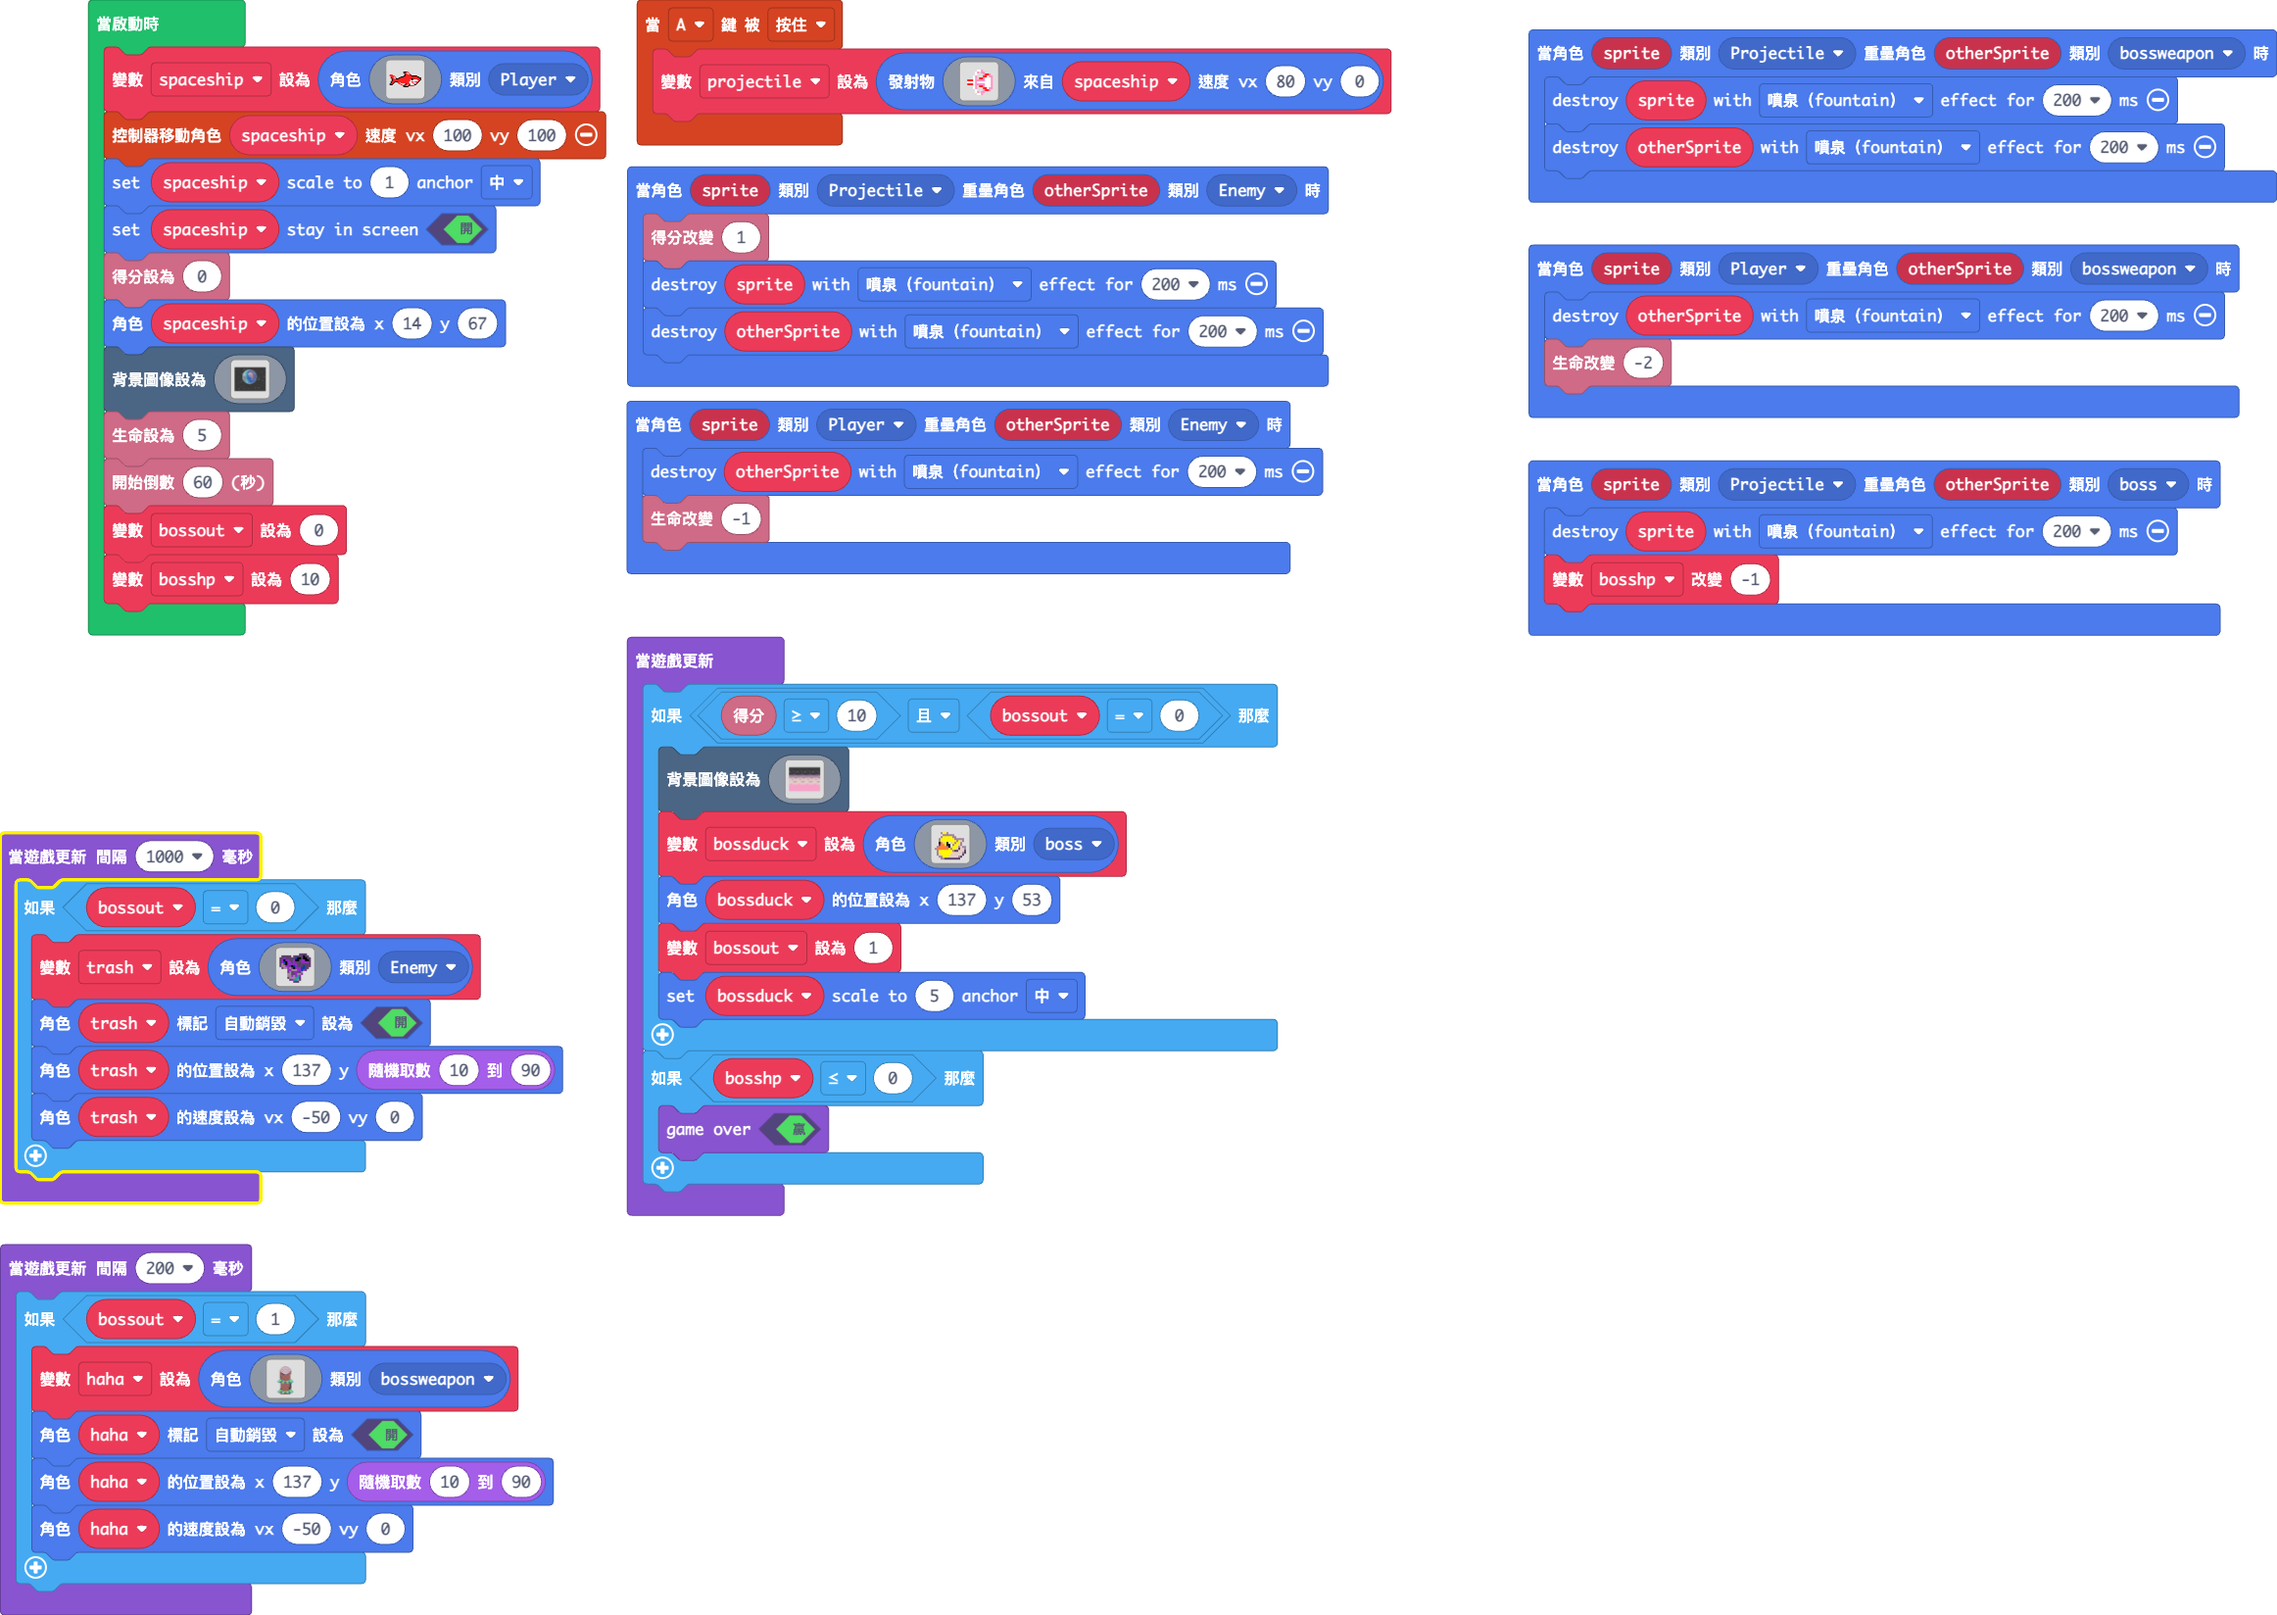
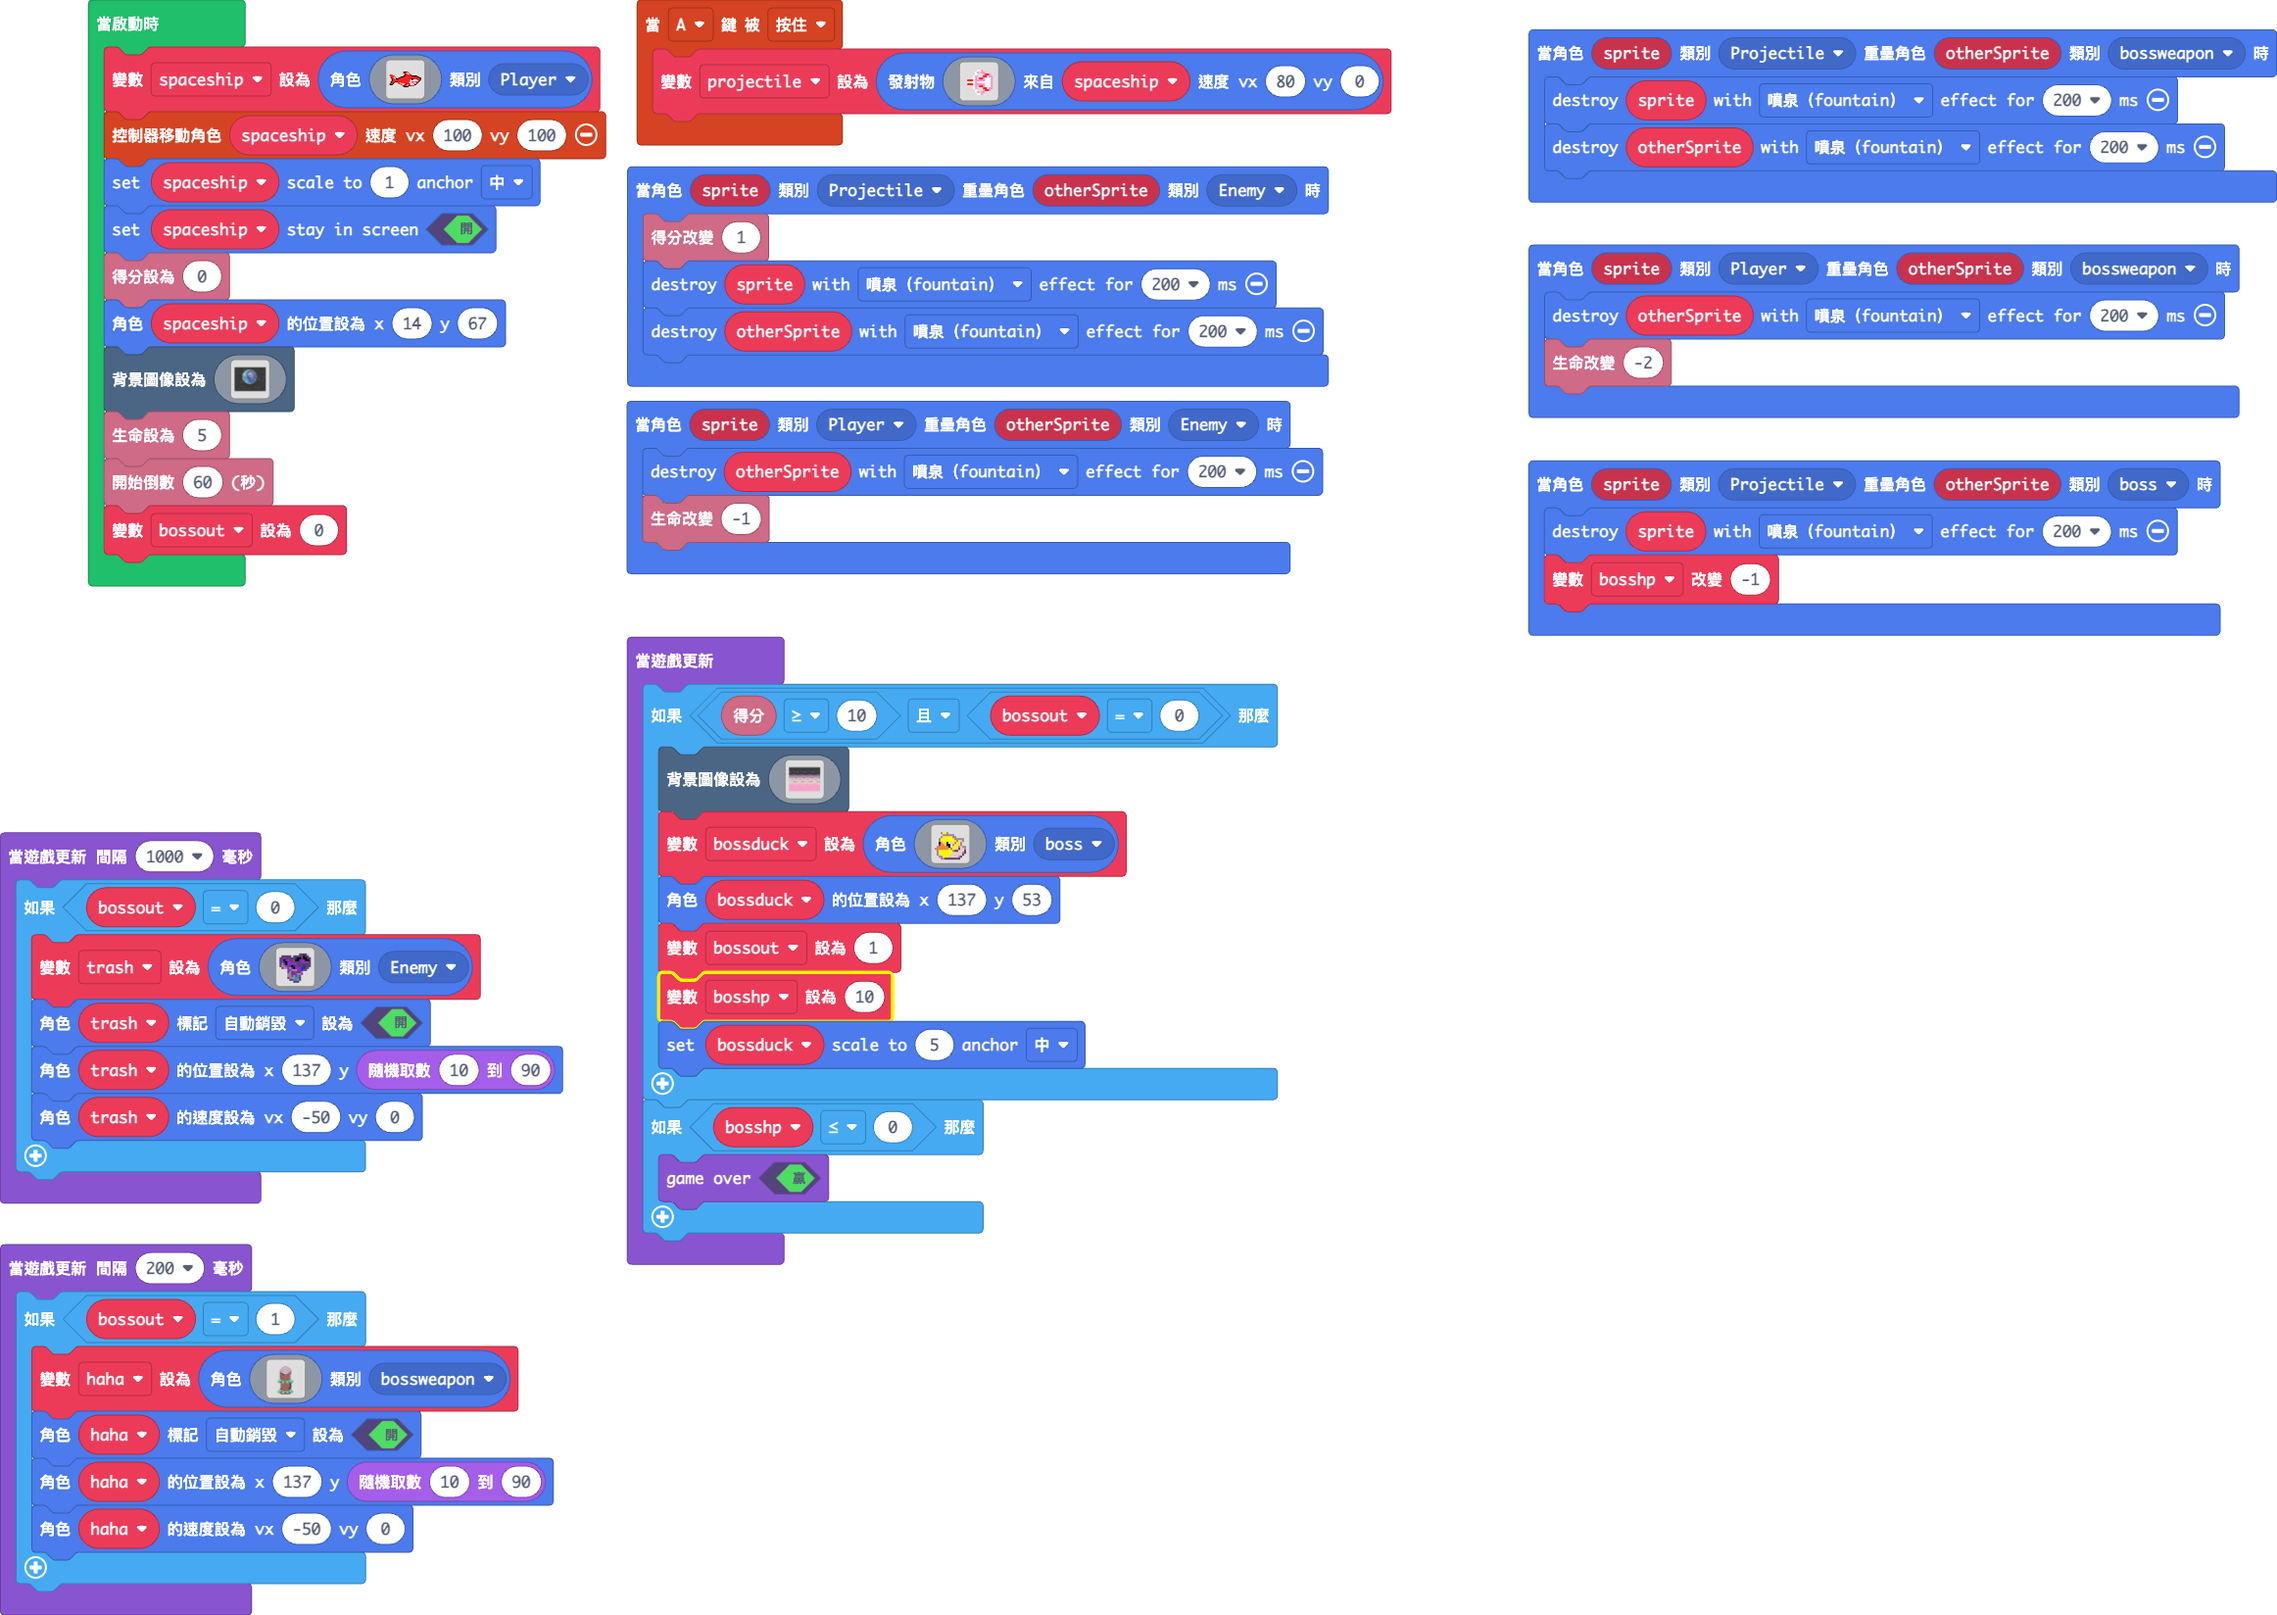
更新 main.blocks, main.ts

diff --git a/main.ts b/main.ts
@@ -46,6 +46,7 @@ sprites.onOverlap(SpriteKind.Player, SpriteKind.bossweapon, function (sprite, ot
 let haha: Sprite = null
 let trash: Sprite = null
 let bossduck: Sprite = null
+let bosshp = 0
 let projectile: Sprite = null
 let spaceship: Sprite = null
 spaceship = sprites.create(img`
@@ -196,7 +197,6 @@ scene.setBackgroundImage(img`
 info.setLife(5)
 info.startCountdown(60)
 let bossout = 0
-let bosshp = 10
 game.onUpdate(function () {
     if (info.score() >= 10 && bossout == 0) {
         scene.setBackgroundImage(img`
@@ -341,6 +341,7 @@ game.onUpdate(function () {
             `, SpriteKind.boss)
         bossduck.setPosition(137, 53)
         bossout = 1
+        bosshp = 10
         bossduck.setScale(5, ScaleAnchor.Middle)
     }
     if (bosshp <= 0) {
